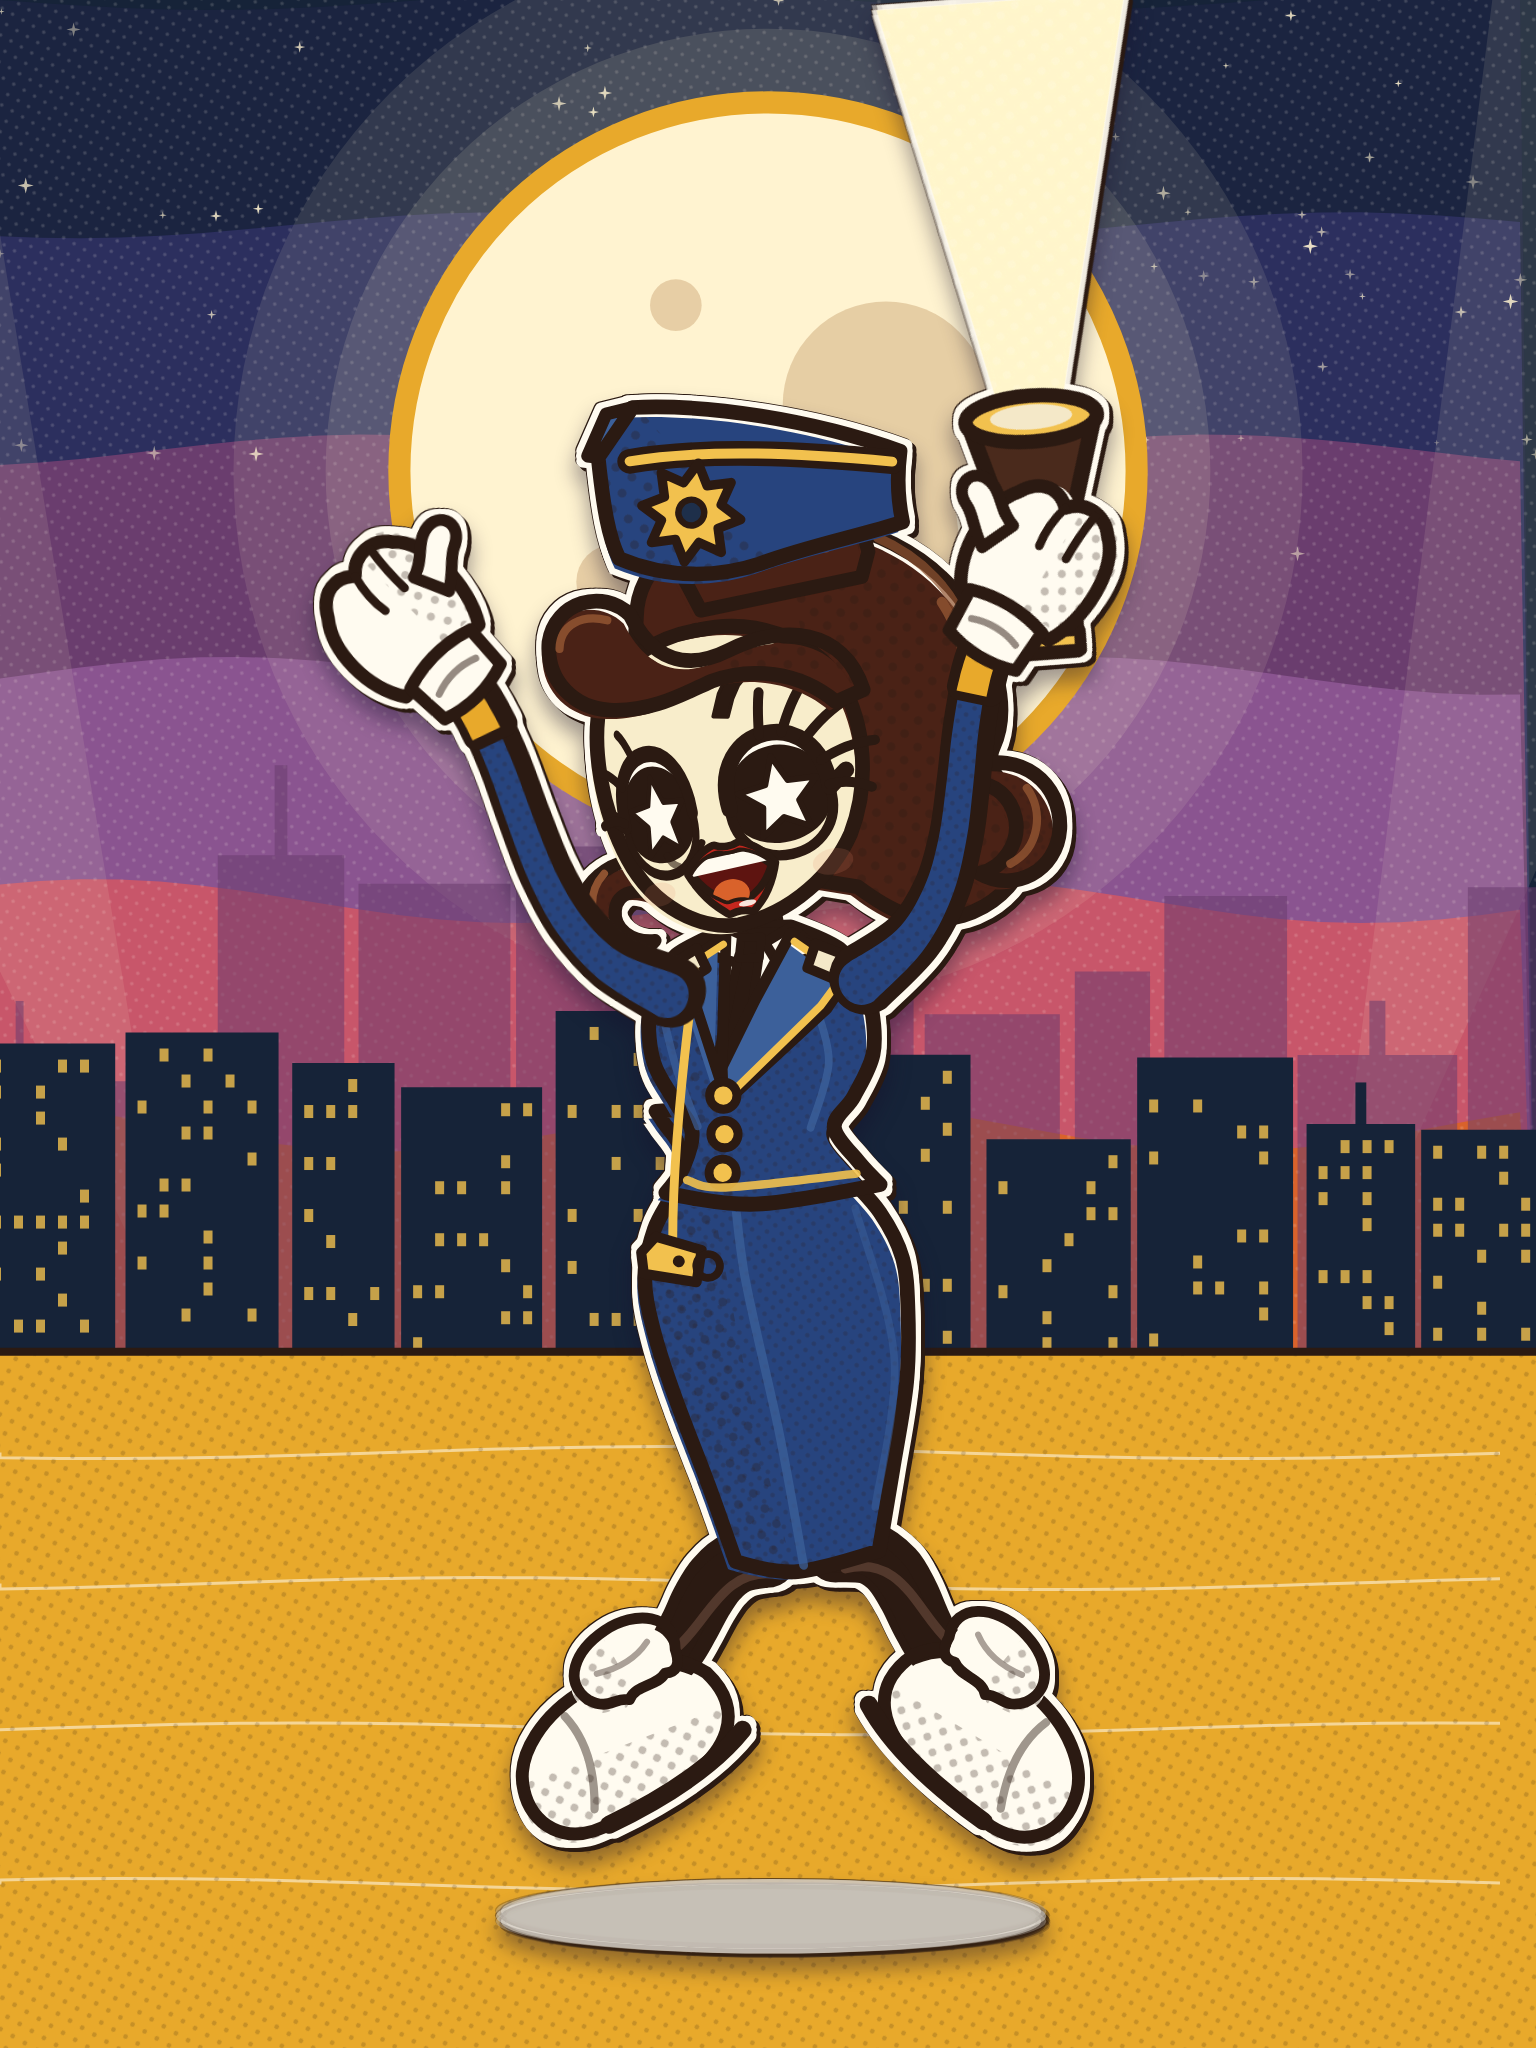
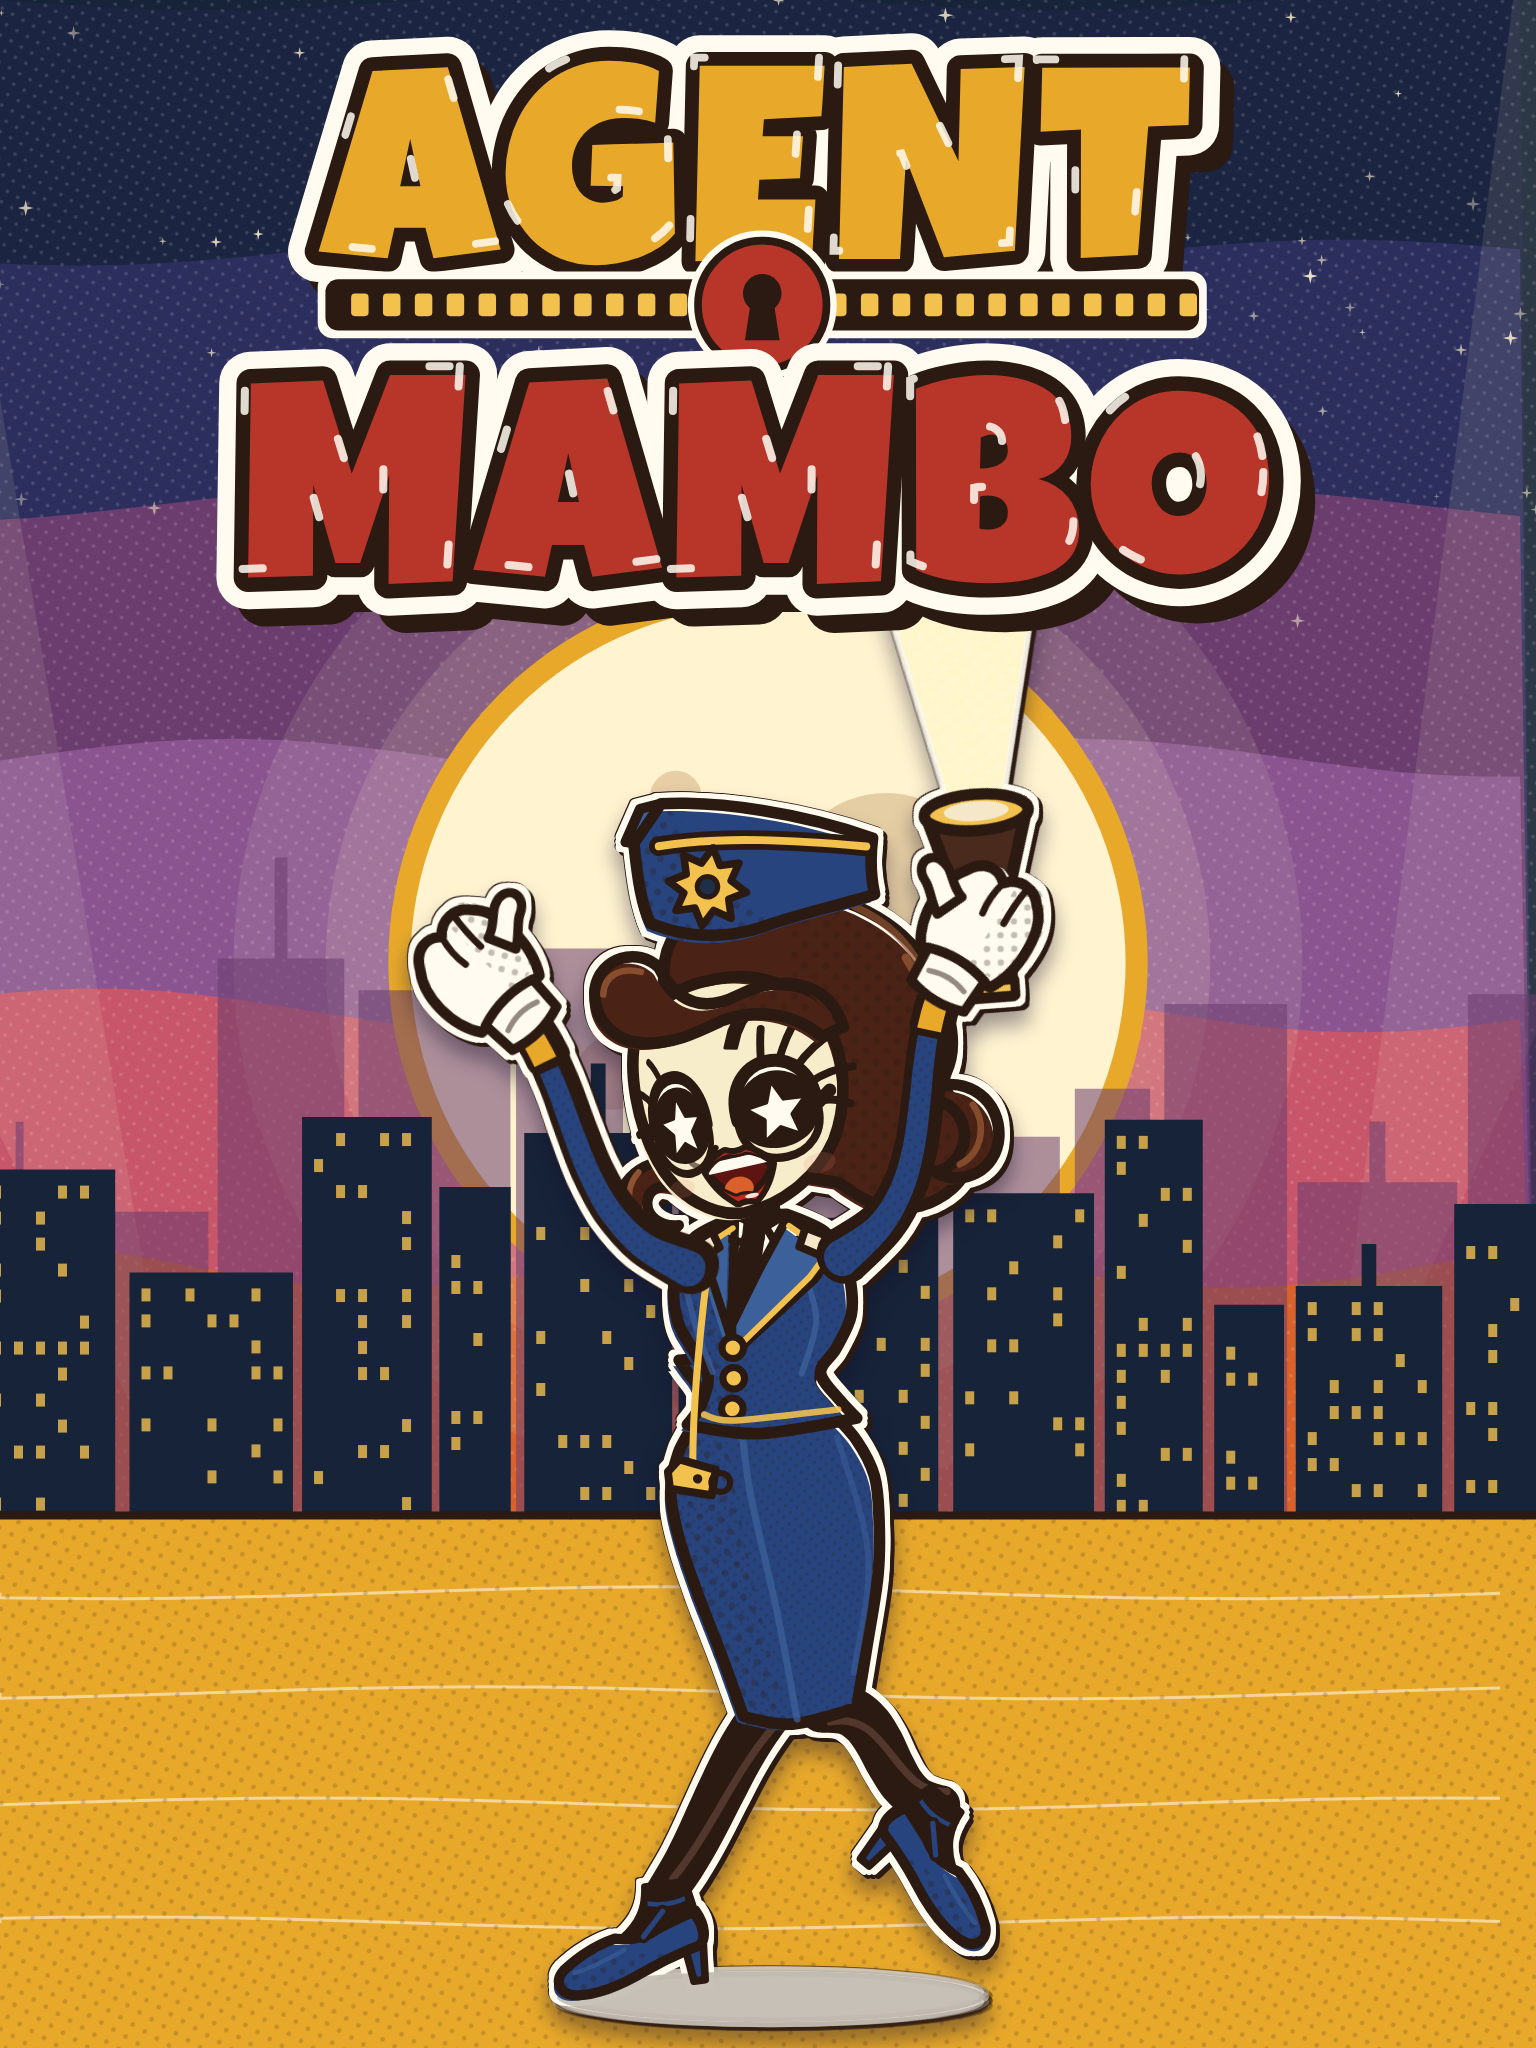
store art: AGENT MAMBO title lockup on the 3:4 tile (FIX_shell_to_store H4-F8 / I1): keyart.html portrait layout fits the Luckiest Guy sticker lockup of the wide layouts across the top third (MAMBO about 73 % of the width, own layer above the heroine so her lamp beam stays under it), heroine in the 
Claude-Session: https://claude.ai/code/session_01VPnHYWw1WXuybpegvtqvRs

diff --git a/docs/research2/art/store/keyart.html b/docs/research2/art/store/keyart.html
@@ -1,13 +1,15 @@
 <!doctype html><html><head><meta charset="utf-8"><title>Agent Mambo key art</title><link rel="icon" href="data:,">
 <!-- Store key art, 100 % vector: hand-built SVG scene + the hand-drawn heroine rig (inspectrice, sober cover version).
-     Usage: keyart.html?w=1920&h=1080  (wide layouts put the title left and the heroine right; portrait = heroine only, like the reference). -->
+     Usage: keyart.html?w=1920&h=1080  (wide layouts put the title left and the heroine right; portrait = the title lockup across the top third, at >= 70 % of the
+     width so it reads at lobby size (FIX_shell_to_store.md), the heroine on the lower two thirds). -->
 <style>
 @font-face{font-family:"Luckiest";src:url(fonts/LuckiestGuy-Regular.ttf)}
 html,body{margin:0;overflow:hidden;background:#162338}
 #scene{position:absolute;left:0;top:0}
 #hero{position:absolute}
+#title{position:absolute;left:0;top:0;pointer-events:none}
 .rim{filter:drop-shadow(5px 0 0 #FFFBF0) drop-shadow(-5px 0 0 #FFFBF0) drop-shadow(0 5px 0 #FFFBF0) drop-shadow(0 -5px 0 #FFFBF0) drop-shadow(4px 4px 0 #2B1A12) drop-shadow(-1px -1px 0 #2B1A12) drop-shadow(0 14px 10px rgba(20,16,43,.4))}
-</style></head><body><svg id="scene"></svg><div id="hero"></div>
+</style></head><body><svg id="scene"></svg><div id="hero"></div><svg id="title"></svg>
 <script type="module">
 import { createHeroine } from '../mambo_rig.mjs';
 import { PAL } from '../mambo_art.mjs';
@@ -26,7 +28,7 @@ o += `<defs>
 <pattern id="dotsL" width="12" height="12" patternUnits="userSpaceOnUse" patternTransform="rotate(30)"><circle cx="6" cy="6" r="1.8" fill="${P.white}" opacity=".16"/></pattern>
 </defs>`;
 // ---- sky: flat stepped bands (the closed palette, no gradients)
-const groundY = portrait ? H * 0.66 : H * (banner ? 0.74 : 0.72);
+const groundY = portrait ? H * 0.74 : H * (banner ? 0.74 : 0.72);
 const bands = [P.night, P.dusk, P.plum, P.plumL, P.rose, P.orange];
 const bh = groundY / bands.length;
 bands.forEach((c, i) => {
@@ -38,7 +40,7 @@ o += `<rect width="${W}" height="${groundY}" fill="url(#dotsL)"/>`;
 // ---- stars
 for (let i = 0; i < W / 22; i++) { const x = r(0, W), y = r(0, groundY * 0.42), z = r(1.5, 4); o += `<path d="M${x} ${y - z * 2}L${x + z * .5} ${y}L${x} ${y + z * 2}L${x - z * .5} ${y}ZM${x - z * 2} ${y}L${x} ${y - z * .5}L${x + z * 2} ${y}L${x} ${y + z * .5}Z" fill="${P.spot}" opacity="${r(.4, .9)}"/>`; }
 // ---- big spotlight disc (moon) with keyhole bite
-const mR = portrait ? W * 0.24 : H * 0.27, mx = portrait ? W * 0.5 : W * (banner ? 0.52 : 0.55), my = portrait ? H * 0.23 : H * 0.3;
+const mR = portrait ? W * 0.24 : H * 0.27, mx = portrait ? W * 0.5 : W * (banner ? 0.52 : 0.55), my = portrait ? H * 0.47 : H * 0.3;
 o += `<circle cx="${mx}" cy="${my}" r="${mR * 1.45}" fill="${P.spot}" opacity=".10"/><circle cx="${mx}" cy="${my}" r="${mR * 1.2}" fill="${P.spot}" opacity=".12"/>`;
 o += `<circle cx="${mx}" cy="${my}" r="${mR}" fill="${P.spot}" stroke="${P.mustard}" stroke-width="${mR * .06}"/>`;
 const kh = mR * 0.28; // keyhole silhouette inside the disc (spy motif)
@@ -60,9 +62,9 @@ city(groundY + 4, groundY * .12, groundY * .27, P.navyDeep, true, 1);
 o += `<path d="M0 ${groundY}H${W}V${H}H0Z" fill="${P.mustard}"/><path d="M0 ${groundY}H${W}" stroke="${P.ink}" stroke-width="8"/>`;
 for (let i = 1; i < 5; i++) { const y = groundY + (H - groundY) * (i / 5) ** 1.2; let d = `M0 ${y}`; for (let x = 0; x <= W; x += 60) d += `L${x} ${y + Math.sin(x / 180 + i) * 6}`; o += `<path d="${d}" stroke="${P.white}" stroke-width="3" fill="none" opacity=".55"/>`; }
 o += `<path d="M0 ${groundY}H${W}V${H}H0Z" fill="url(#dots)"/>`;
-// ---- title (wide layouts only, like the reference)
-if (!portrait) {
-  const tx = W * (banner ? 0.25 : 0.27), ts = banner ? H * 0.27 : H * 0.17, t1y = banner ? H * 0.42 : H * 0.36, t2y = t1y + ts * 1.45;
+// ---- title: left of the heroine in the wide layouts; in portrait it is drawn at a nominal size around x = 0 and fitted to the top third below
+{
+  const tx = portrait ? 0 : W * (banner ? 0.25 : 0.27), ts = portrait ? 200 : banner ? H * 0.27 : H * 0.17, t1y = portrait ? 0 : banner ? H * 0.42 : H * 0.36, t2y = t1y + ts * (portrait ? 1.24 : 1.45);
   const word = (txt, y, fill, size) => {
     const a = `x="${tx}" y="${y}" text-anchor="middle" font-family="Luckiest" font-size="${size}" letter-spacing="${size * .04}"`;
     return `<text ${a} fill="${P.ink}" stroke="${P.ink}" stroke-width="${size * .2}" stroke-linejoin="round" transform="translate(${size * .06} ${size * .07})">${txt}</text>` +
@@ -71,18 +73,29 @@ if (!portrait) {
       `<text ${a} fill="${fill}" stroke="${P.ink}" stroke-width="${size * .1}" stroke-linejoin="round" paint-order="stroke">${txt}</text>` +
       `<text ${a} fill="none" stroke="${P.white}" stroke-width="${size * .028}" stroke-dasharray="${size * .07} ${size * .55}" stroke-linecap="round" opacity=".85" transform="translate(${-size * .02} ${-size * .03})">${txt}</text>`;
   };
-  o += word('AGENT', t1y, P.mustard, ts);
+  if (portrait) { s.innerHTML = o; o = '<g id="ttl">'; } // portrait: the lockup goes on its own layer above the heroine (her lamp beam stays under it)
+  o += word('AGENT', t1y, P.mustard, portrait ? ts * 1.08 : ts);
   // divider: film strip / dossier tape with a keyhole badge
-  const dy = (t1y + t2y - ts) / 2 + ts * .05, dw = ts * 3.4, dh = ts * .3;
+  const dy = (t1y + t2y - ts) / 2 + ts * .05, dw = ts * 3.4, dh = ts * (portrait ? .2 : .3);
   o += `<g transform="translate(${tx} ${dy})"><rect x="${-dw / 2 - 6}" y="${-dh / 2 - 6}" width="${dw + 12}" height="${dh + 12}" rx="${dh * .3}" fill="${P.white}"/><rect x="${-dw / 2}" y="${-dh / 2}" width="${dw}" height="${dh}" rx="${dh * .25}" fill="${P.ink}"/>`;
   for (let x = -dw / 2 + dh * .5; x < dw / 2 - dh * .3; x += dh * .62) o += `<rect x="${x}" y="${-dh * .22}" width="${dh * .34}" height="${dh * .44}" rx="3" fill="${P.gold}"/>`;
   const b = dh * 1.25; o += `<circle r="${b + 8}" fill="${P.white}"/><circle r="${b}" fill="${P.brick}" stroke="${P.ink}" stroke-width="6"/><circle cy="${-b * .18}" r="${b * .3}" fill="${P.ink}"/><path d="M${-b * .17} ${-b * .1}L${b * .17} ${-b * .1}L${b * .27} ${b * .55}L${-b * .27} ${b * .55}Z" fill="${P.ink}"/></g>`;
   o += word('MAMBO', t2y, P.brick, ts * 1.12);
+  if (portrait) o += '</g>';
 }
-s.innerHTML = o;
-// ---- heroine, sober cover pose (inspectrice, happy, arms up, fully covered)
-const hh = portrait ? H * 0.86 : H * (banner ? 1.02 : 0.9), hw = hh * 400 / 600;
-const hx = portrait ? (W - hw) / 2 : W * (banner ? 0.8 : 0.77) - hw / 2, hy = portrait ? H * 0.12 : H - hh - H * (banner ? -0.005 : 0.02);
+await document.fonts.load('100px Luckiest');
+if (!portrait) s.innerHTML = o;
+else {
+  const tl = document.getElementById('title');
+  tl.setAttribute('width', W); tl.setAttribute('height', H); tl.setAttribute('viewBox', `0 0 ${W} ${H}`); tl.innerHTML = o;
+  // fit the lockup: 84 % of the width (fill box; the sticker rims add about 4 %), never taller than 31 % of the height, top at 2.5 %
+  const g = document.getElementById('ttl'), b = g.getBBox();
+  const k = Math.min(W * 0.84 / b.width, H * 0.31 / b.height);
+  g.setAttribute('transform', `translate(${W / 2 - (b.x + b.width / 2) * k} ${H * 0.025 - b.y * k}) scale(${k})`);
+}
+// ---- heroine, sober cover pose (inspectrice, happy, arms up, fully covered); portrait: the lower two thirds, under the title
+const hh = portrait ? H * 0.68 : H * (banner ? 1.02 : 0.9), hw = hh * 400 / 600;
+const hx = portrait ? (W - hw) / 2 : W * (banner ? 0.8 : 0.77) - hw / 2, hy = portrait ? H * 0.33 : H - hh - H * (banner ? -0.005 : 0.02);
 const el = document.getElementById('hero'); el.style.cssText = `left:${hx}px;top:${hy}px;width:${hw}px;height:${hh}px`; el.classList.add('rim');
 await document.fonts.load('100px Luckiest');
 const M = createHeroine(el, { outfit: 'inspectrice', raf: false, idle: false, limited: 0, seed: 7, mirror: true });
